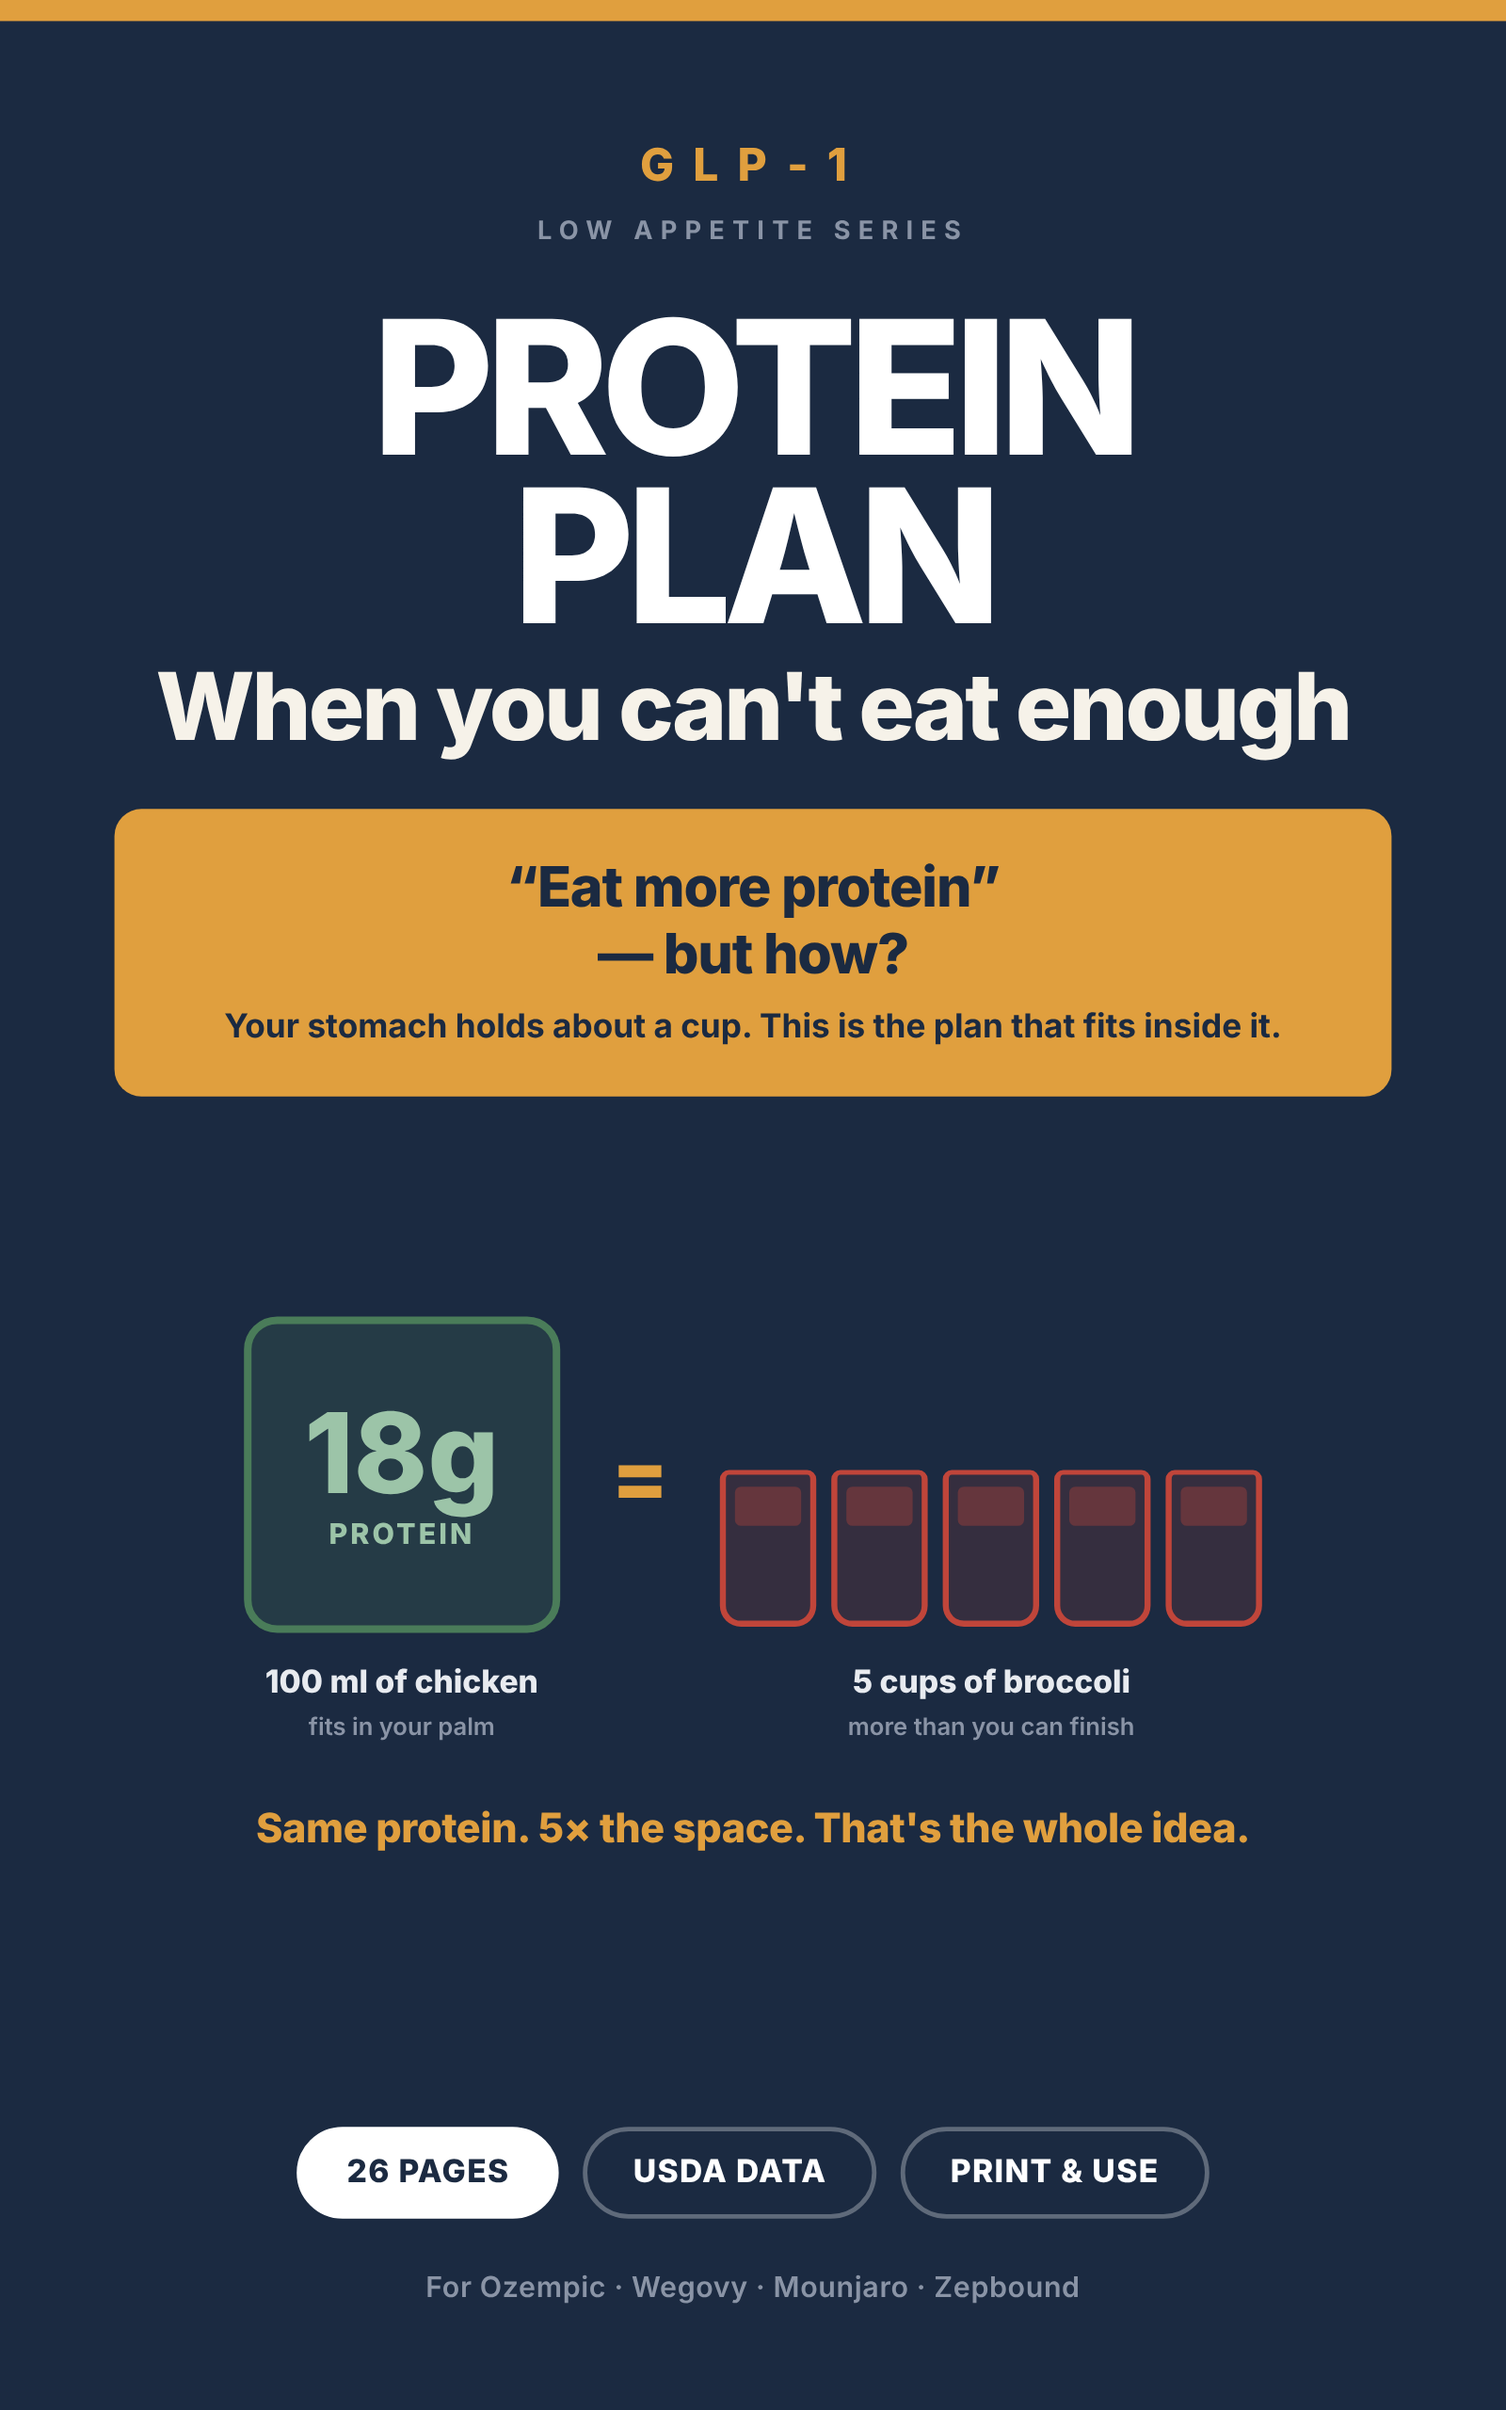
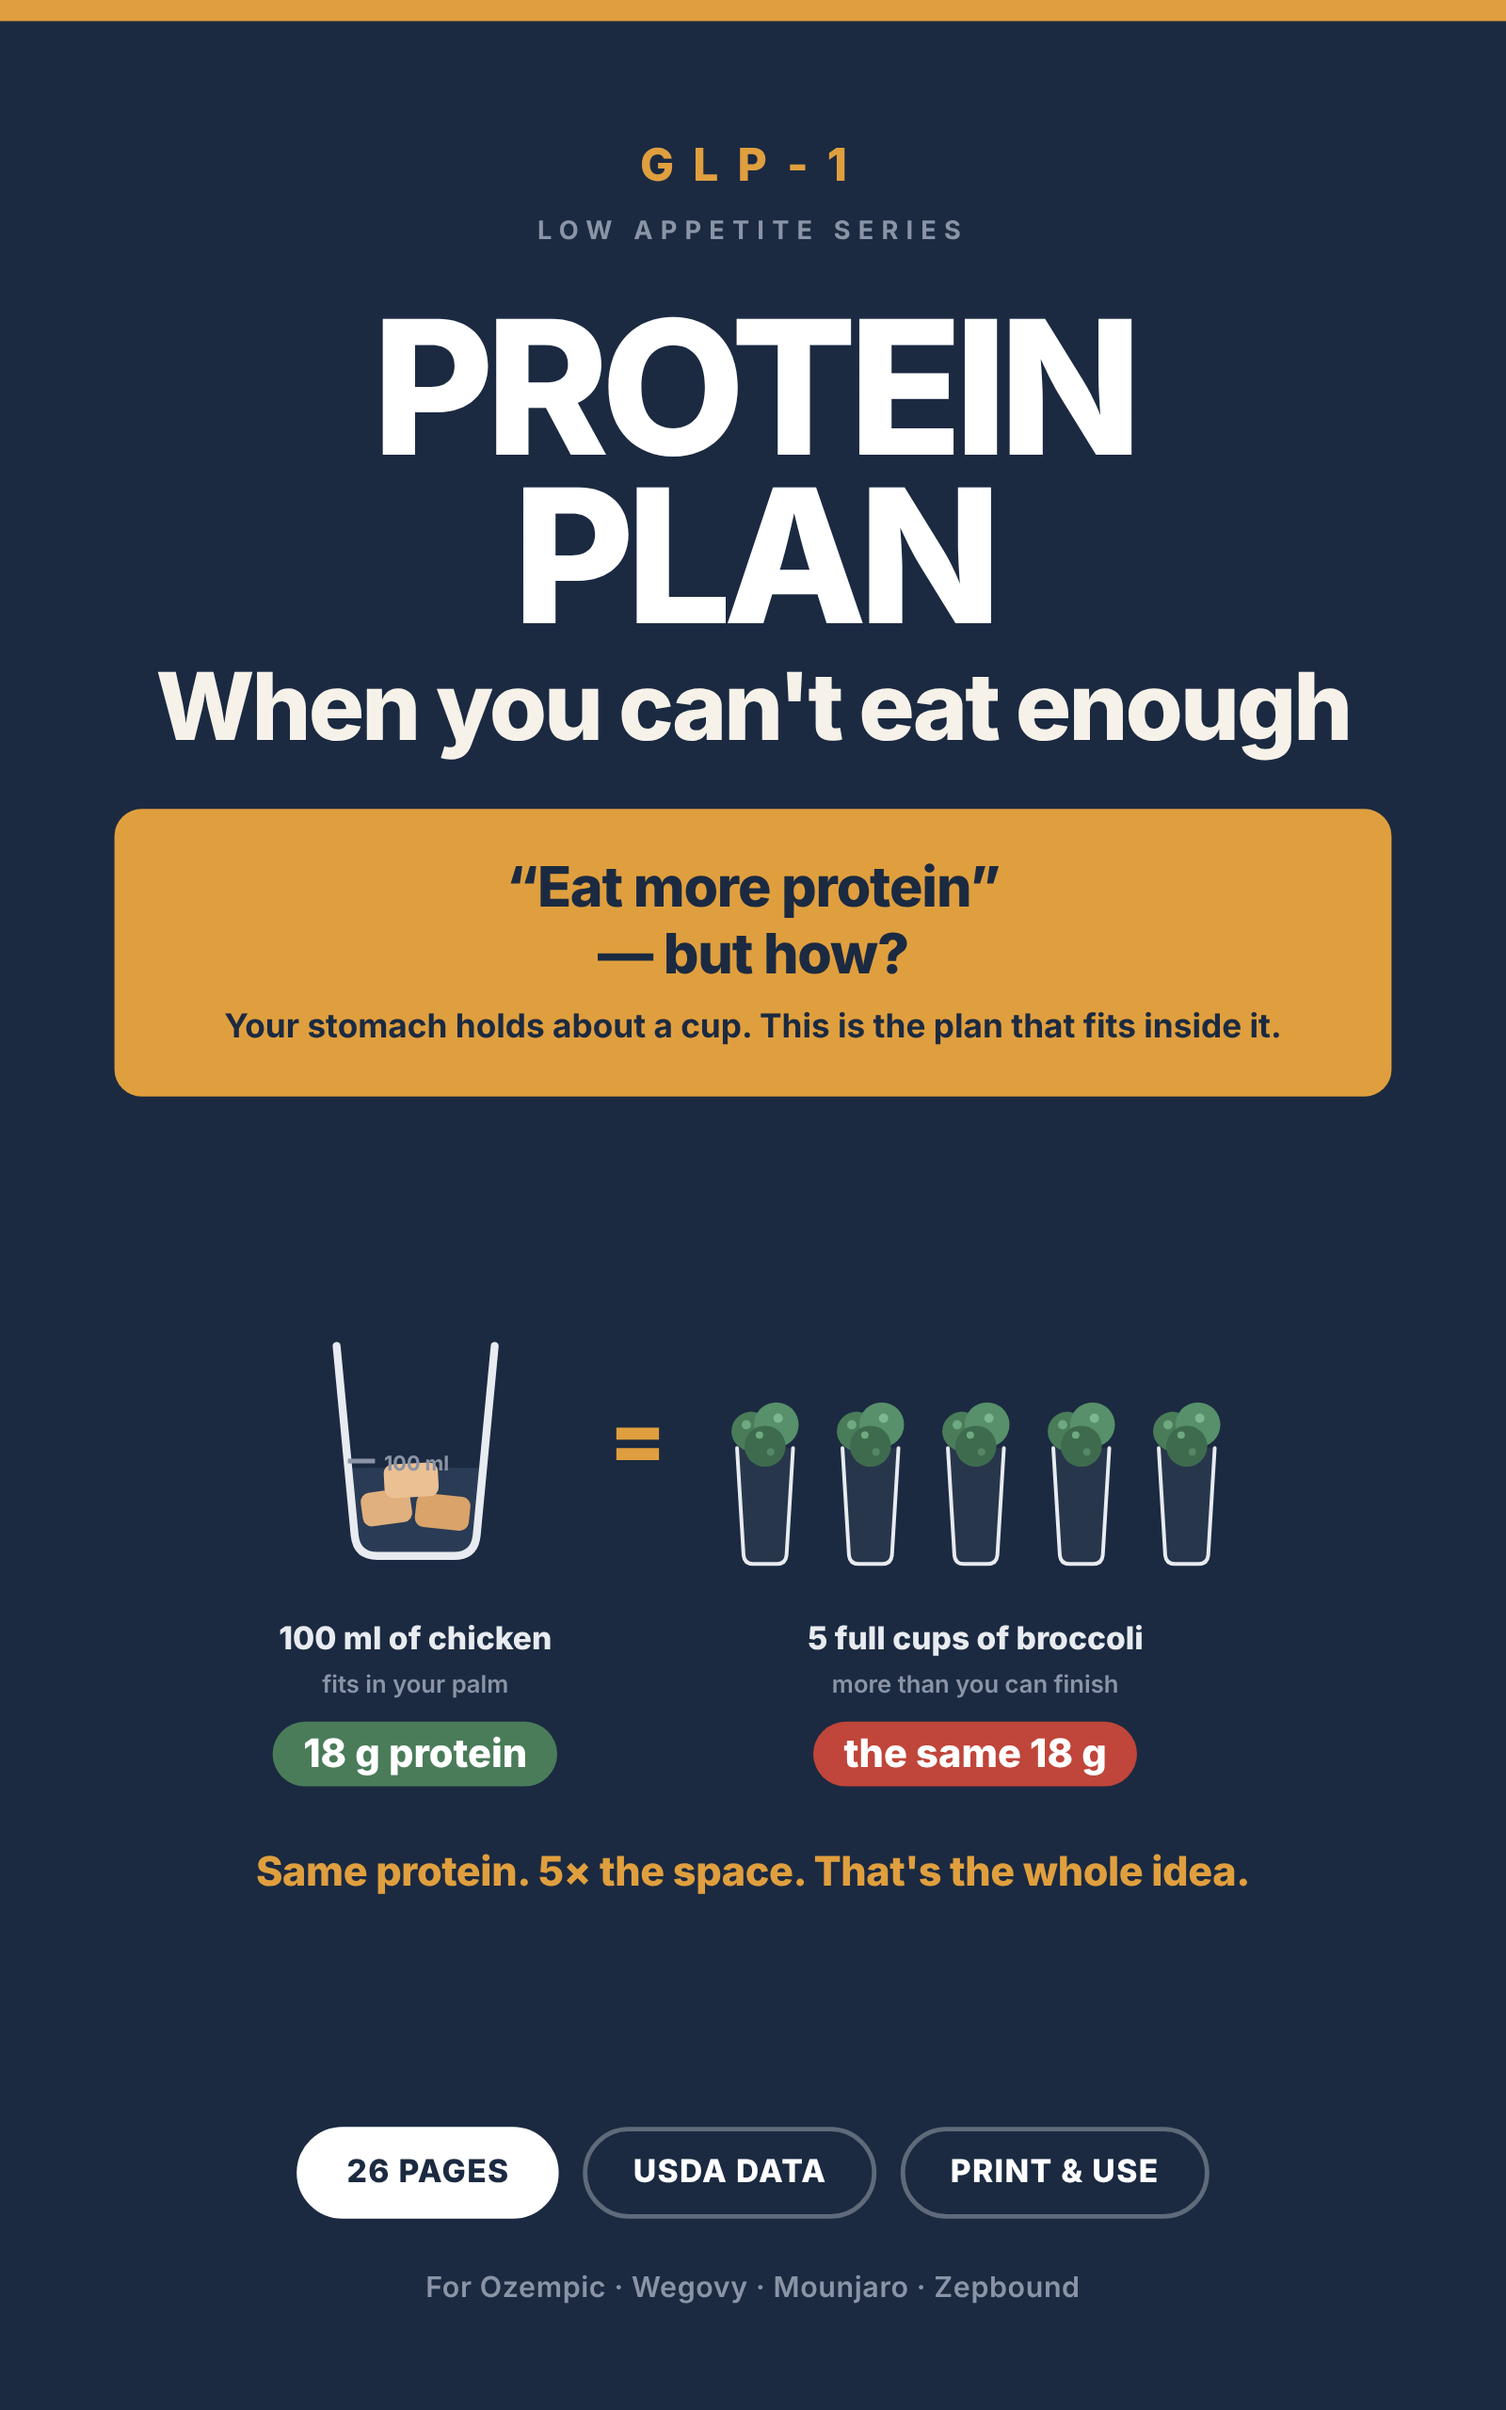
Cover: replace flat boxes with SVG cup illustrations
Claude-Session: https://claude.ai/code/session_015udXMA1KmBFHqrMq4qJ4ZP

Changed region(s): [[0.1562, 0.5312, 0.8438, 0.7812], [0.4062, 0.5938, 0.4375, 0.625]]

diff --git a/product/listing/cover-front.html b/product/listing/cover-front.html
@@ -23,19 +23,15 @@
   .mid{ flex:1; display:flex; flex-direction:column; justify-content:center; }
   .viz{ display:flex; align-items:center; justify-content:center; gap:34px; padding:0 60px; }
   .vb{ text-align:center; }
-  .bigcup{ width:210px; height:210px; border-radius:22px; display:flex; flex-direction:column;
-        align-items:center; justify-content:center; border:5px solid var(--green);
-        background:rgba(74,124,89,.22); margin:0 auto; }
-  .bigcup .n{ font-size:74px; font-weight:800; line-height:1; color:#9CC4A8; }
-  .bigcup .u{ font-size:19px; font-weight:800; letter-spacing:.1em; color:#9CC4A8; margin-top:6px; }
-  .cups5{ display:flex; gap:10px; justify-content:center; align-items:flex-end; height:210px; padding-bottom:4px; }
-  .mini{ width:64px; height:104px; border:4px solid var(--red); border-top-width:3px;
-         border-radius:6px 6px 14px 14px; background:rgba(192,69,58,.16); position:relative; }
-  .mini:after{ content:""; position:absolute; left:6px; right:6px; top:8px; height:26px;
-         border-radius:4px; background:rgba(192,69,58,.35); }
+  .cupart{ height:210px; display:flex; align-items:flex-end; justify-content:center; }
+  .cups5{ display:flex; gap:8px; justify-content:center; align-items:flex-end; height:210px; }
+  .gbadge{ display:inline-block; background:var(--green); color:#fff; font-size:26px; font-weight:800;
+           border-radius:999px; padding:6px 20px; margin-top:14px; }
+  .rbadge{ display:inline-block; background:var(--red); color:#fff; font-size:26px; font-weight:800;
+           border-radius:999px; padding:6px 20px; margin-top:14px; }
   .vlabel{ font-size:21px; font-weight:800; color:#E8EBF0; margin-top:20px; line-height:1.3; }
   .vlabel small{ display:block; font-size:16px; font-weight:600; color:#8A94A6; margin-top:5px; }
-  .veq{ font-size:56px; font-weight:800; color:var(--amber); padding-bottom:70px; }
+  .veq{ font-size:56px; font-weight:800; color:var(--amber); padding-bottom:120px; }
 
   .same{ text-align:center; font-size:27px; font-weight:800; color:var(--amber);
          letter-spacing:-.01em; margin-top:40px; }
@@ -63,13 +59,81 @@
   <div class="mid">
   <div class="viz">
     <div class="vb">
-      <div class="bigcup"><div class="n">18g</div><div class="u">PROTEIN</div></div>
+      <div class="cupart"><svg width="150" height="200" viewBox="0 0 100 130">
+  <defs><clipPath id="cc"><path d="M17,30 L24,108 Q25,116 33,116 L67,116 Q75,116 76,108 L83,30 Z"/></clipPath></defs>
+  <g clip-path="url(#cc)">
+    <rect x="10" y="78" width="80" height="45" fill="#2A3B55"/>
+    <rect x="26" y="88" width="22" height="15" rx="4" fill="#E0B07E" transform="rotate(-8 37 95)"/>
+    <rect x="50" y="90" width="24" height="15" rx="4" fill="#D9A369" transform="rotate(6 62 97)"/>
+    <rect x="36" y="76" width="24" height="15" rx="4" fill="#EBC093" transform="rotate(-3 48 83)"/>
+  </g>
+  <path d="M15,24 L23,108 Q24,117 33,117 L67,117 Q76,117 77,108 L85,24" fill="none" stroke="#E8EBF0" stroke-width="3.5" stroke-linecap="round"/>
+  <line x1="20" y1="75" x2="32" y2="75" stroke="#8A94A6" stroke-width="2"/>
+  <text x="36" y="79" font-family="Inter" font-size="9" font-weight="700" fill="#8A94A6">100 ml</text>
+</svg></div>
       <div class="vlabel">100 ml of chicken<small>fits in your palm</small></div>
+      <div class="gbadge">18 g protein</div>
     </div>
     <div class="veq">=</div>
     <div class="vb">
-      <div class="cups5"><span class="mini"></span><span class="mini"></span><span class="mini"></span><span class="mini"></span><span class="mini"></span></div>
-      <div class="vlabel">5 cups of broccoli<small>more than you can finish</small></div>
+      <div class="cups5"><svg width="62" height="150" viewBox="0 0 100 220">
+  <path d="M20,80 L27,195 Q28,204 37,204 L63,204 Q72,204 73,195 L80,80" fill="rgba(255,255,255,.06)" stroke="#E8EBF0" stroke-width="4" stroke-linecap="round"/>
+  <g>
+    <circle cx="35" cy="62" r="21" fill="#4A7C59"/>
+    <circle cx="62" cy="55" r="24" fill="#57906A"/>
+    <circle cx="50" cy="78" r="22" fill="#3E6B4E"/>
+    <circle cx="30" cy="55" r="5" fill="#6FA981"/>
+    <circle cx="44" cy="66" r="4" fill="#6FA981"/>
+    <circle cx="64" cy="48" r="5" fill="#7DB78F"/>
+    <circle cx="56" cy="84" r="4" fill="#558666"/>
+  </g>
+</svg><svg width="62" height="150" viewBox="0 0 100 220">
+  <path d="M20,80 L27,195 Q28,204 37,204 L63,204 Q72,204 73,195 L80,80" fill="rgba(255,255,255,.06)" stroke="#E8EBF0" stroke-width="4" stroke-linecap="round"/>
+  <g>
+    <circle cx="35" cy="62" r="21" fill="#4A7C59"/>
+    <circle cx="62" cy="55" r="24" fill="#57906A"/>
+    <circle cx="50" cy="78" r="22" fill="#3E6B4E"/>
+    <circle cx="30" cy="55" r="5" fill="#6FA981"/>
+    <circle cx="44" cy="66" r="4" fill="#6FA981"/>
+    <circle cx="64" cy="48" r="5" fill="#7DB78F"/>
+    <circle cx="56" cy="84" r="4" fill="#558666"/>
+  </g>
+</svg><svg width="62" height="150" viewBox="0 0 100 220">
+  <path d="M20,80 L27,195 Q28,204 37,204 L63,204 Q72,204 73,195 L80,80" fill="rgba(255,255,255,.06)" stroke="#E8EBF0" stroke-width="4" stroke-linecap="round"/>
+  <g>
+    <circle cx="35" cy="62" r="21" fill="#4A7C59"/>
+    <circle cx="62" cy="55" r="24" fill="#57906A"/>
+    <circle cx="50" cy="78" r="22" fill="#3E6B4E"/>
+    <circle cx="30" cy="55" r="5" fill="#6FA981"/>
+    <circle cx="44" cy="66" r="4" fill="#6FA981"/>
+    <circle cx="64" cy="48" r="5" fill="#7DB78F"/>
+    <circle cx="56" cy="84" r="4" fill="#558666"/>
+  </g>
+</svg><svg width="62" height="150" viewBox="0 0 100 220">
+  <path d="M20,80 L27,195 Q28,204 37,204 L63,204 Q72,204 73,195 L80,80" fill="rgba(255,255,255,.06)" stroke="#E8EBF0" stroke-width="4" stroke-linecap="round"/>
+  <g>
+    <circle cx="35" cy="62" r="21" fill="#4A7C59"/>
+    <circle cx="62" cy="55" r="24" fill="#57906A"/>
+    <circle cx="50" cy="78" r="22" fill="#3E6B4E"/>
+    <circle cx="30" cy="55" r="5" fill="#6FA981"/>
+    <circle cx="44" cy="66" r="4" fill="#6FA981"/>
+    <circle cx="64" cy="48" r="5" fill="#7DB78F"/>
+    <circle cx="56" cy="84" r="4" fill="#558666"/>
+  </g>
+</svg><svg width="62" height="150" viewBox="0 0 100 220">
+  <path d="M20,80 L27,195 Q28,204 37,204 L63,204 Q72,204 73,195 L80,80" fill="rgba(255,255,255,.06)" stroke="#E8EBF0" stroke-width="4" stroke-linecap="round"/>
+  <g>
+    <circle cx="35" cy="62" r="21" fill="#4A7C59"/>
+    <circle cx="62" cy="55" r="24" fill="#57906A"/>
+    <circle cx="50" cy="78" r="22" fill="#3E6B4E"/>
+    <circle cx="30" cy="55" r="5" fill="#6FA981"/>
+    <circle cx="44" cy="66" r="4" fill="#6FA981"/>
+    <circle cx="64" cy="48" r="5" fill="#7DB78F"/>
+    <circle cx="56" cy="84" r="4" fill="#558666"/>
+  </g>
+</svg></div>
+      <div class="vlabel">5 full cups of broccoli<small>more than you can finish</small></div>
+      <div class="rbadge">the same 18 g</div>
     </div>
   </div>
   <div class="same">Same protein. 5&times; the space. That's the whole idea.</div>
